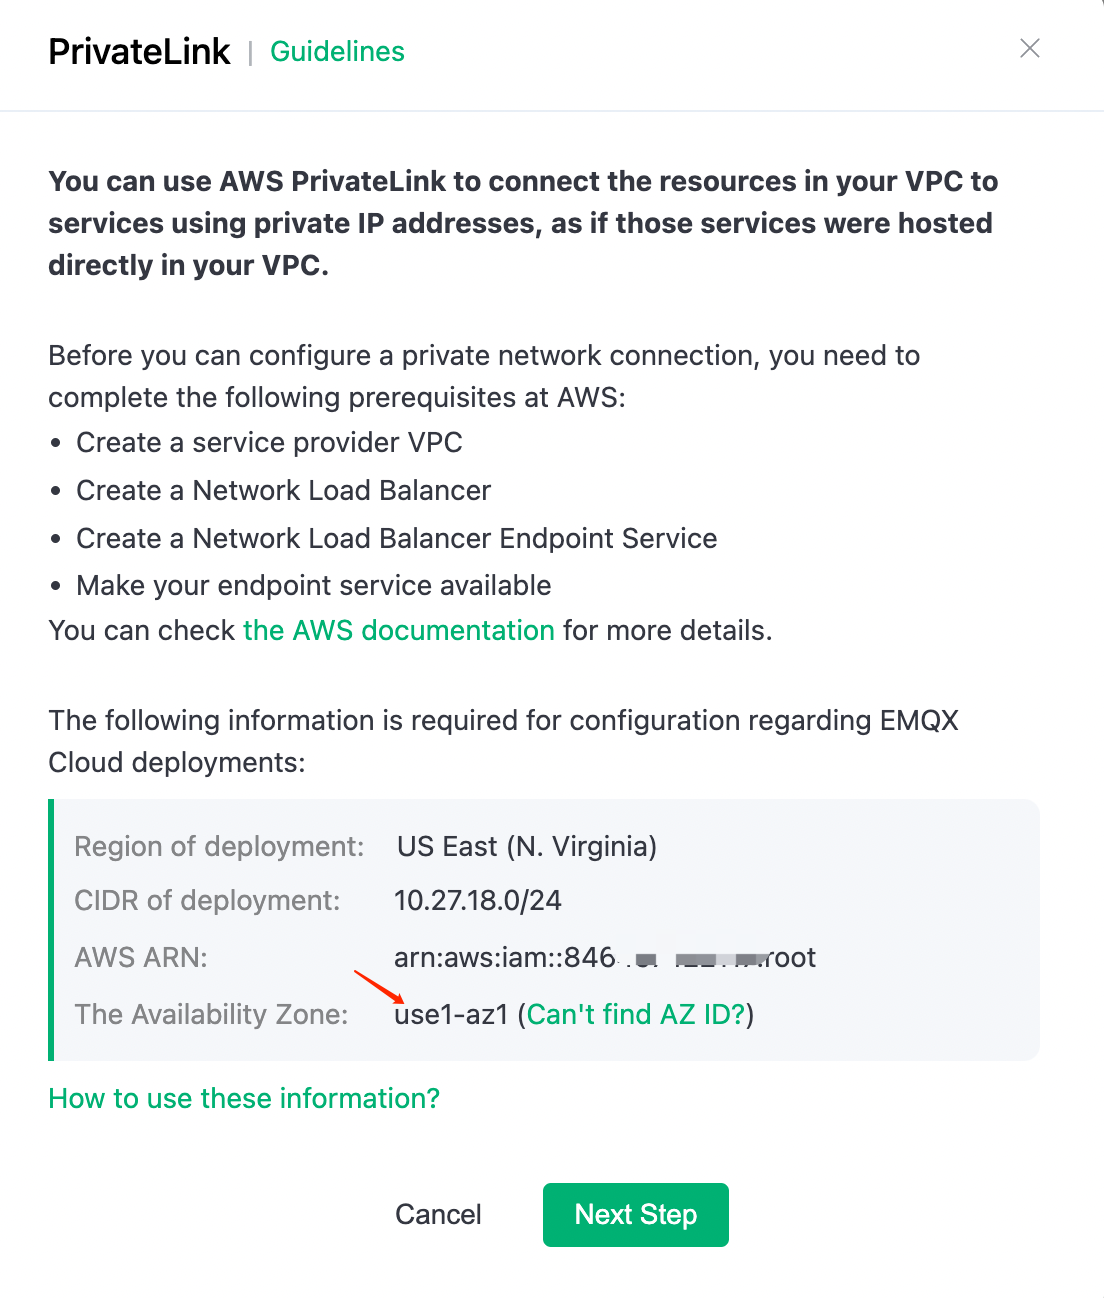
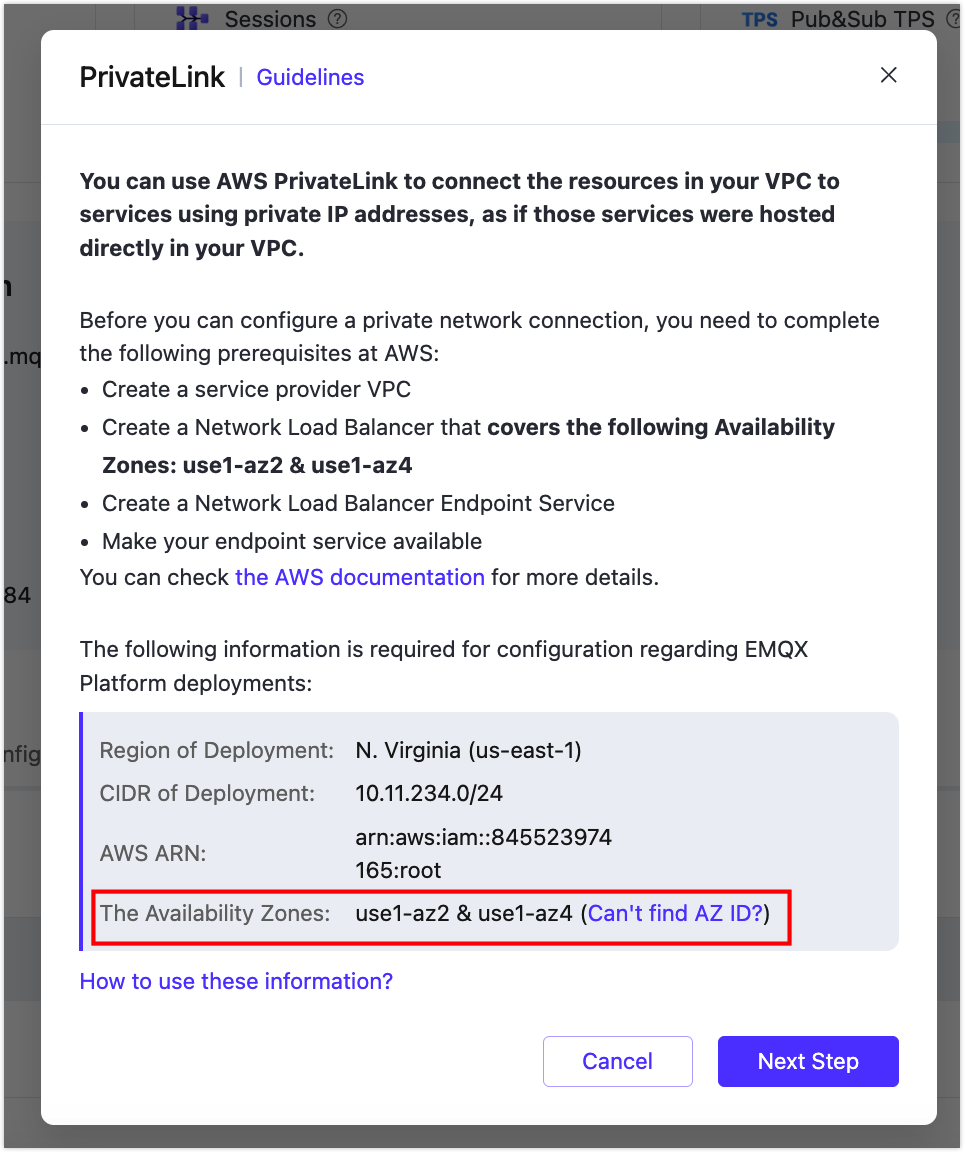
update(AWS PrivateLink): Add new availability zones

Changed region(s): [[0.0, 0.0, 1.0, 1.0]]

diff --git a/en_US/deployments/privatelink-aws.md b/en_US/deployments/privatelink-aws.md
@@ -1,73 +1,92 @@
 # AWS PrivateLink
 
-This page provides instructions on how to enable the PrivateLink feature for the EMQX Platform deployment on the Amazon AWS platform. Once the PrivateLink is enabled, the EMQX Platform deployment can access AWS hosted services through a private connection in your virtual network. In the private connection, the EMQX Platform deployment's Virtual Private Cloud (VPC) functions as the service user, sending requests to the VPC where your cloud-based resources reside, namely, the service provider's VPC.
+This page provides detailed instructions on how to enable the PrivateLink feature for EMQX Platform deployments on the Amazon AWS platform. By enabling PrivateLink, your EMQX deployment can access AWS-hosted services through a secure and private connection within your virtual network. This ensures that communication remains isolated from the public internet, improving both security and performance.
+
+In this setup, your EMQX Platform deployment’s Virtual Private Cloud (VPC) acts as the service user, establishing a connection to the service provider’s VPC, where your AWS resources reside.
 
 <LazyIframeVideo vendor="youtube" src="https://www.youtube.com/embed/vu_3KW4pq9A/?autoplay=1&null" />
 
 ## Create Endpoint Service Using AWS PrivateLink
 
-When creating Endpoint Service in AWS, the LB Availability Zone [AZ ID](https://us-east-1.console.aws.amazon.com/ram/home?region=us-east-1#Home) created should be identical to that in the EMQX Platform deployment. To get the AZ ID in EMQX Platform:
+This section demonstrates the steps to create an AWS Endpoint Service using AWS PrivateLink, which allows EMQX deployments to securely connect to AWS services. This is crucial for ensuring that your EMQX deployment communicates privately and directly with AWS services via a private connection within the VPC. This process involves setting up the required AWS resources, configuring load balancers, and enabling PrivateLink on the EMQX Platform.
 
-Login to [EMQX Platform Console](<https://cloud.emqx.com/console>), go to the desired deployment creation details, and click the `+PrivateLink` button to get the deployment availability zone.
+### Obtain AZ ID from EQMX Platform Console
 
-![lb](./_assets/deployment_privatelink_details.png)
+When creating an Endpoint Service in AWS, the Availability Zone ID (AZ ID) of your Load Balancer (LB) must match the AZ ID in your EMQX Platform deployment. To obtain the AZ ID:
 
-Before you can configure PrivateLink, you need to complete the following prerequisite steps on the AWS platform.
+1. Go to your deployment in the EMQX Platform Console.
+2. On the deployment overview page, select the **PrivateLink** button at the bottom and click **+PrivateLink**.
+3. In the pop-up dialog, you will see the availability zone details for the deployment.
 
-1. Register an AWS account and enable the PrivateLink service
+<img src="./_assets/deployment_privatelink_details.png" alt="lb" style="zoom:67%;" />
 
-2. Create an instance and VPC
+### Complete Preparatory Steps on the AWS Platform
 
-3. Create a target group for load balancing
+Before configuring PrivateLink, complete the following steps on the AWS platform.
 
-   On **Basic configuration**, set the **Target group name**, **Protocol** （TCP） and **Port**.
+1. Register an AWS account and enable the PrivateLink service.
 
-   ![lb](./_assets/lb_target_group_1.png)
+2. Create an EC2 instance and VPC.
 
-   On **Health checks**, set the **Override** port, and for the rest, you can keep the default setting or set as your business needs.
-   ![lb](./_assets/lb_target_group_2.png)
+3. Create a target group for load balancing.
 
-   Then register target group and create instance.
-   ![lb](./_assets/lb_target_group_3.png)
+   - On **Basic configuration**, set the **Target group name**, **Protocol** (TCP), and **Port**.
 
-4. Create and configure the Load Balancer with the AZ ID you obtained from EMQX Platform Console.
+     ![lb](./_assets/lb_target_group_1.png)
 
-   Select the type of load balancing as **Network Load Balancer**.
-   ![lb](./_assets/lb_type.png)
+   - On **Health checks**, set the **Override** port, and for the rest, you can keep the default setting or set as your business needs.
 
-   Select the schema type as internal to facilitate requests to private IP addresses.
-   ![lb](./_assets/lb_1.png)
+     ![lb](./_assets/lb_target_group_2.png)
 
-   Select the TCP protocol, fill in the listening port and the corresponding target group.
-   ![lb](./_assets/lb_2.png)
+   - Register target group and create instance.
 
-   After creating the load balancer, check whether the listening port status of the target group is healthy.
-   ![lb](./_assets/lb_3.png)
+     ![lb](./_assets/lb_target_group_3.png)
 
-5. Create an endpoint service
+4. Create and configure the LB with the AZ ID you obtained from EMQX Platform Console.
 
-   Find the Endpoint Services in the left menu bar of your AWS account and click Create. The load balancer type is Network, select the load balancer created in the previous step.
+   - Select **Network Load Balancer** as the type of load balancing and click **Create**.
+
+     ![lb](./_assets/lb_type.png)
+
+   - Select the schema type as internal to facilitate requests to private IP addresses.
+
+     ![lb](./_assets/lb_1.png)
+
+   - Select the TCP protocol, fill in the listening port and the corresponding target group.
+
+     ![lb](./_assets/lb_2.png)
+
+   - After creating the load balancer, check whether the listening port status of the target group is healthy.
+
+     ![lb](./_assets/lb_3.png)
+
+### Create An Endpoint Service
+
+Follow the instructions below and refer to [AWS Help](https://docs.aws.amazon.com/vpc/latest/privatelink/create-endpoint-service.html#create-endpoint-service-nlb) to complete the configuration.
+
+1. Find the Endpoint Services in the left menu bar of your AWS account and click **Create**. Select the load balancer type as **Network**, and select the load balancer created in the previous step.
+
    ![endpoint service](./_assets/endpoint_service_1.png)
 
-   In the additional settings, select the IP address type as IPV4.
+2. In the additional settings, select the IP address type as IPV4.
+
    ![endpoint service](./_assets/endpoint_service_2.png)
 
-   Once created, you will get the endpoint service name.
+3. Once created, you will get the endpoint service name.
+
    ![endpoint service](./_assets/endpoint_service_3.png)
 
-   You can refer to [AWS Help](https://docs.aws.amazon.com/vpc/latest/privatelink/create-endpoint-service.html#create-endpoint-service-nlb) to complete the above configuration.
+## Enable PrivateLink on EMQX Platform
 
-## Enable EMQX Platform PrivateLink
-
-1. After getting the AWS ARN where the deployment is located in EMQX Platform console, add it to the allowed principals entry of your AWS Platform-Endpoint Service.
+1. After getting the AWS ARN where the deployment is located in EMQX Platform Console, add it to the allowed principals entry of your AWS Platform-Endpoint Service.
 
    ![lb](./_assets/endpoint_service_grant.png)
 
-   Once added, click `Allow principals and go to the next step`.
+   Once added, click **Allow principals** and go to the next step.
 
-2. Locate the Endpoint service on your AWS platform, copy the service name, fill it to the EMQX Platform Endpoint service name, and click `Create PrivateLink`.
+2. In the AWS platform, locate your Endpoint Service, copy the service name, and enter it into the **Enter the name of Endpoint Service** field on the EMQX Platform Console. Then, click **Create PrivateLink**.
 
-   ![lb](./_assets/p6.png)
+   <img src="./_assets/p6.png" alt="lb" style="zoom:67%;" />
 
 3. Once completed, find the Endpoint Service - Endpoint Connection in your AWS platform and click `Accept Endpoint Connection Request`.
 
@@ -88,9 +107,9 @@ To remove the private connection, you need to ensure that the PrivateLink status
 > - If you need to remove the PrivateLink service from your AWS platform, please remove the PrivateLink from EMQX Platform console first, otherwise it will cause PrivateLink status of the deployment to be `failed`.
 > - Please ensure that there are no associated resources in the deployment before removing the PrivateLink, otherwise it will lead to unpredictable risks.
 
-1. Go to Deployment Details
+1. Go to the Deployment Overview page.
 
-2. Click on the `Delete button` to the right of the PrivateLink and click on Confirm to complete the deletion.
+2. Click on the Delete button to the right of the PrivateLink and click **Confirm** to complete the deletion.
 
    ![delete](./_assets/delete_privatelink.png)
 
